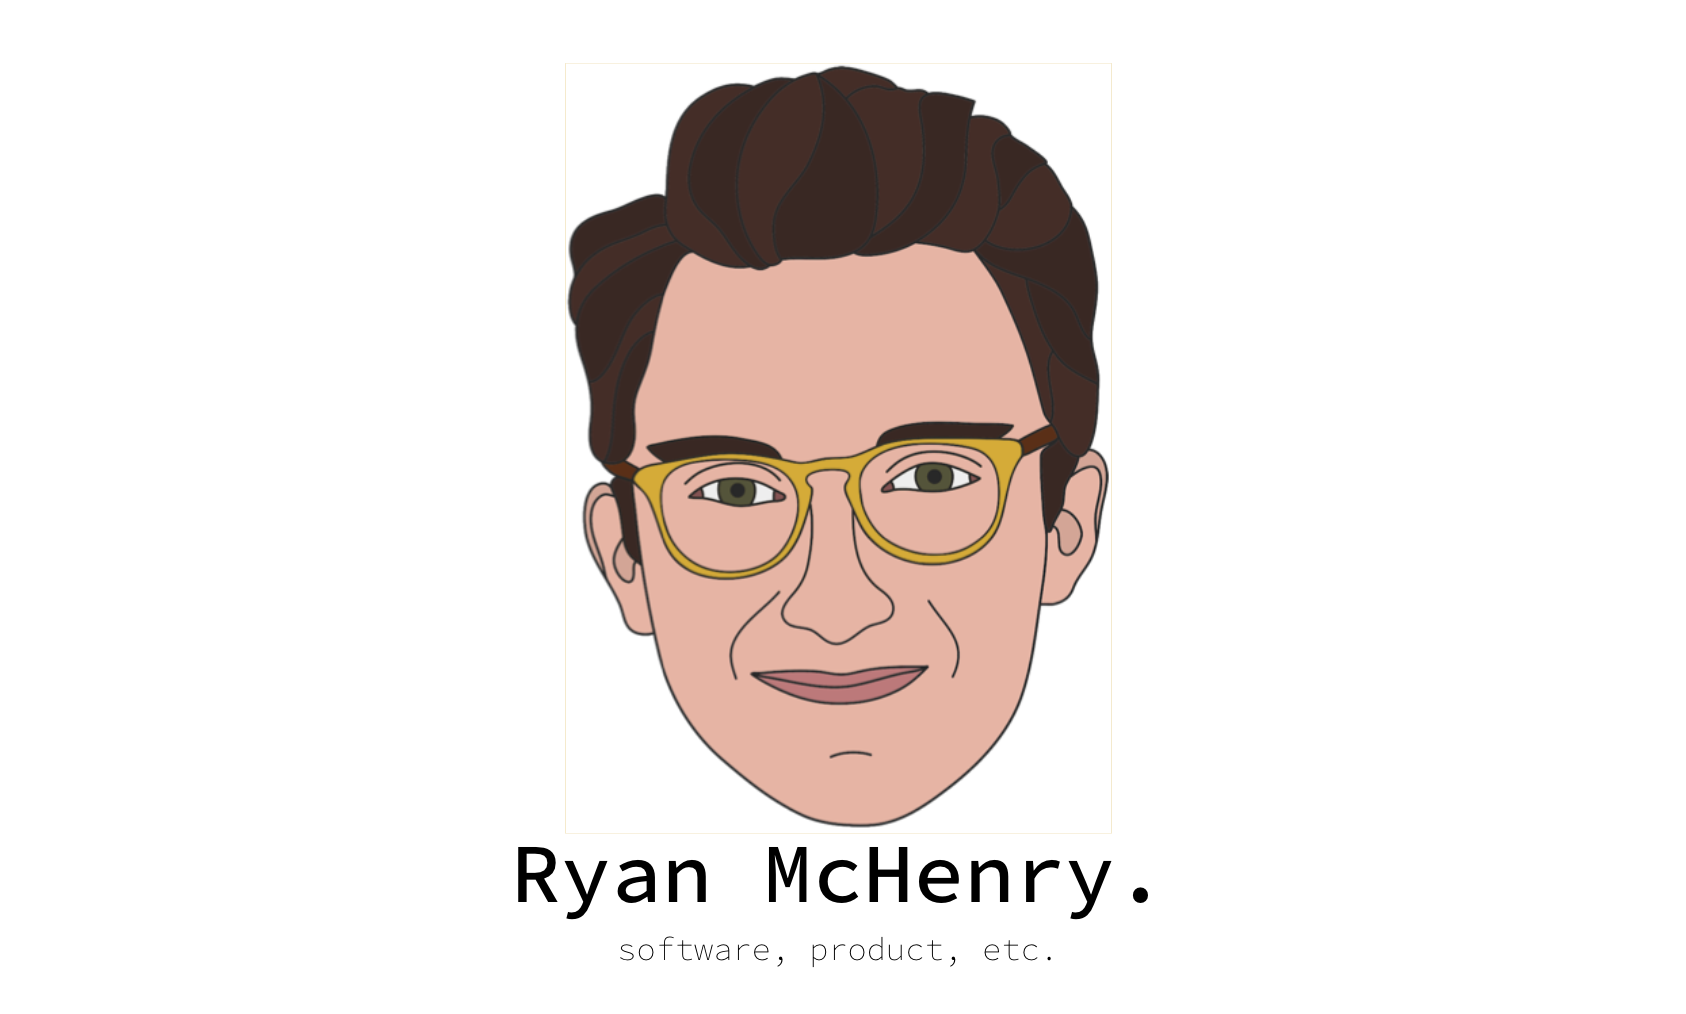
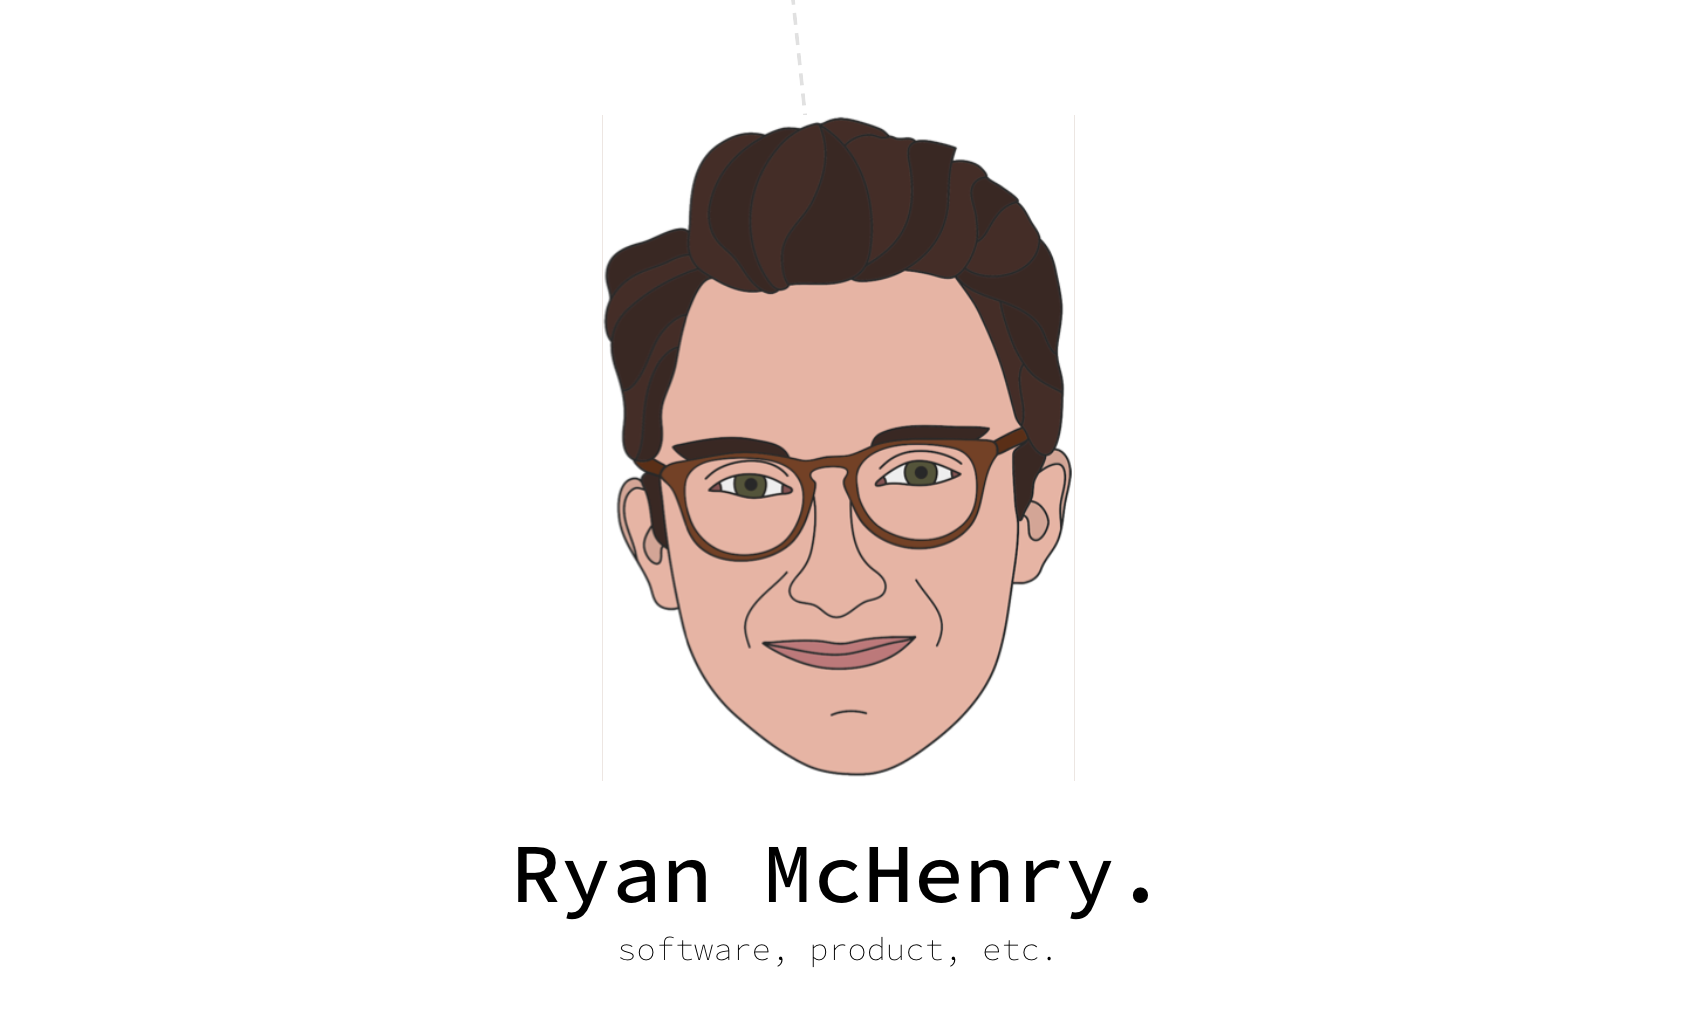
mobile container fixing

Changed region(s): [[0.3393, 0.0611, 0.6785, 0.8254]]

diff --git a/src/App.css b/src/App.css
@@ -323,7 +323,7 @@ a{
 @media only screen and (max-width: 800px){
   .splashContainer{
     height: calc(100vh - 112px);
-    padding-bottom: 112px;
+    margin-bottom: 112px;
   }
   @keyframes move-right {
     from {
